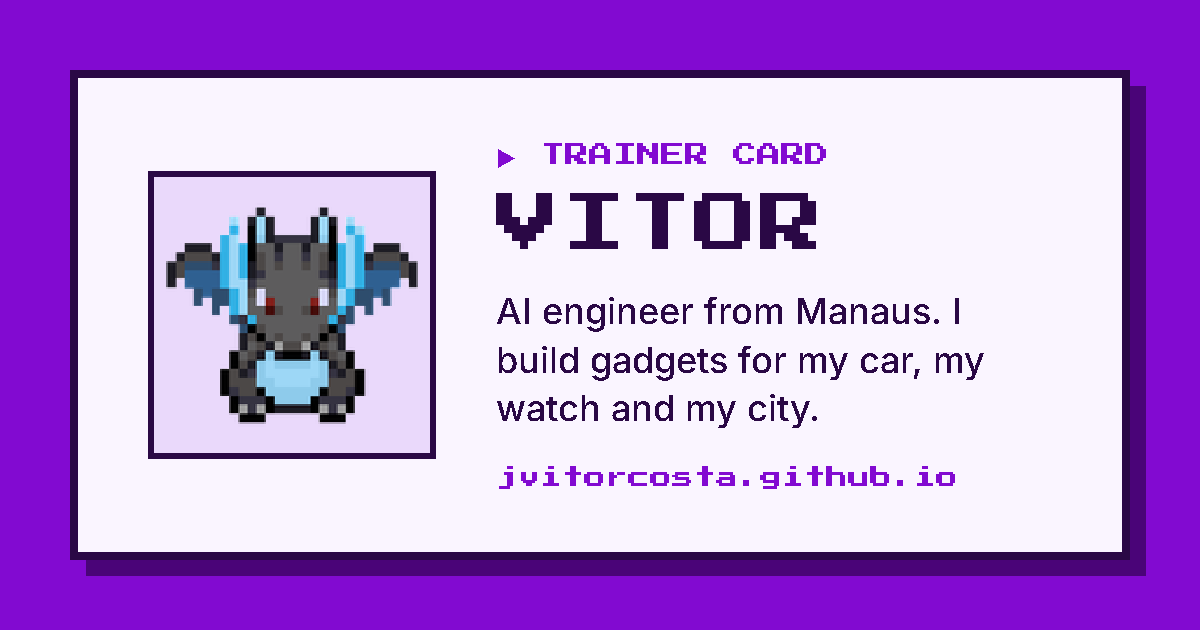
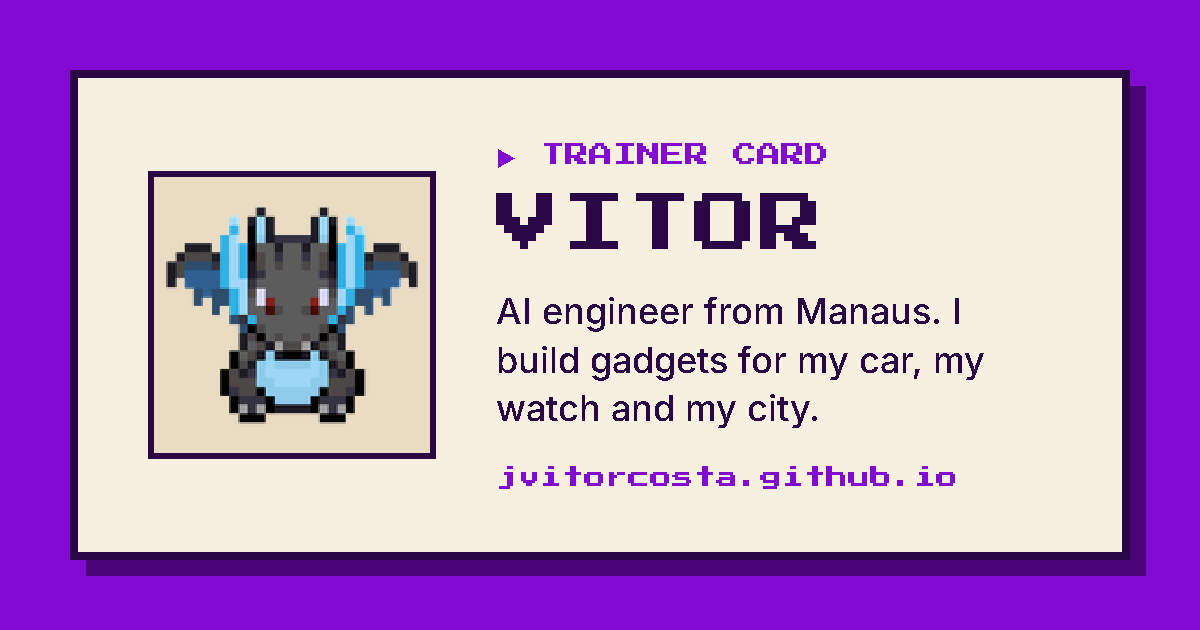
style: oat-card beige for the Nu Purple theme

diff --git a/assets/site.css b/assets/site.css
@@ -40,7 +40,7 @@
 
 .pal-pocket { --bg:#d7d3c8; --box:#fbfaf4; --ink:#1f2a44; --line:#1f2a44; --shadow:#9aa3b5; --soft:#dfe2ea; --accent:#d63333; --hp:#3fa34d; --ink-on-bg:#1f2a44; --strava:#c43d00; --strava-decoration:underline; color-scheme:light; }
 .pal-night { --bg:#141220; --box:#221d33; --ink:#f2eefc; --line:#7a6ea6; --shadow:#000000; --soft:#3a3354; --accent:#ff8000; --hp:#00e054; --ink-on-bg:#f2eefc; --strava:#fc5200; --strava-decoration:none; color-scheme:dark; }
-.pal-nu { --bg:#820ad1; --box:#faf5ff; --ink:#2a0845; --line:#2a0845; --shadow:#4a0478; --soft:#ead9fb; --accent:#820ad1; --hp:#ffb703; --ink-on-bg:#ffffff; --strava:#c43d00; --strava-decoration:underline; color-scheme:light; }
+.pal-nu { --bg:#820ad1; --box:#f7f0e1; --ink:#2a0845; --line:#2a0845; --shadow:#4a0478; --soft:#e9dcc2; --accent:#820ad1; --hp:#ffb703; --ink-on-bg:#ffffff; --strava:#c43d00; --strava-decoration:underline; color-scheme:light; }
 
 /* No JS yet (or none at all): a light-mode phone gets Pocket. site.js sets data-pal, which ends this. */
 @media (prefers-color-scheme: light) {
